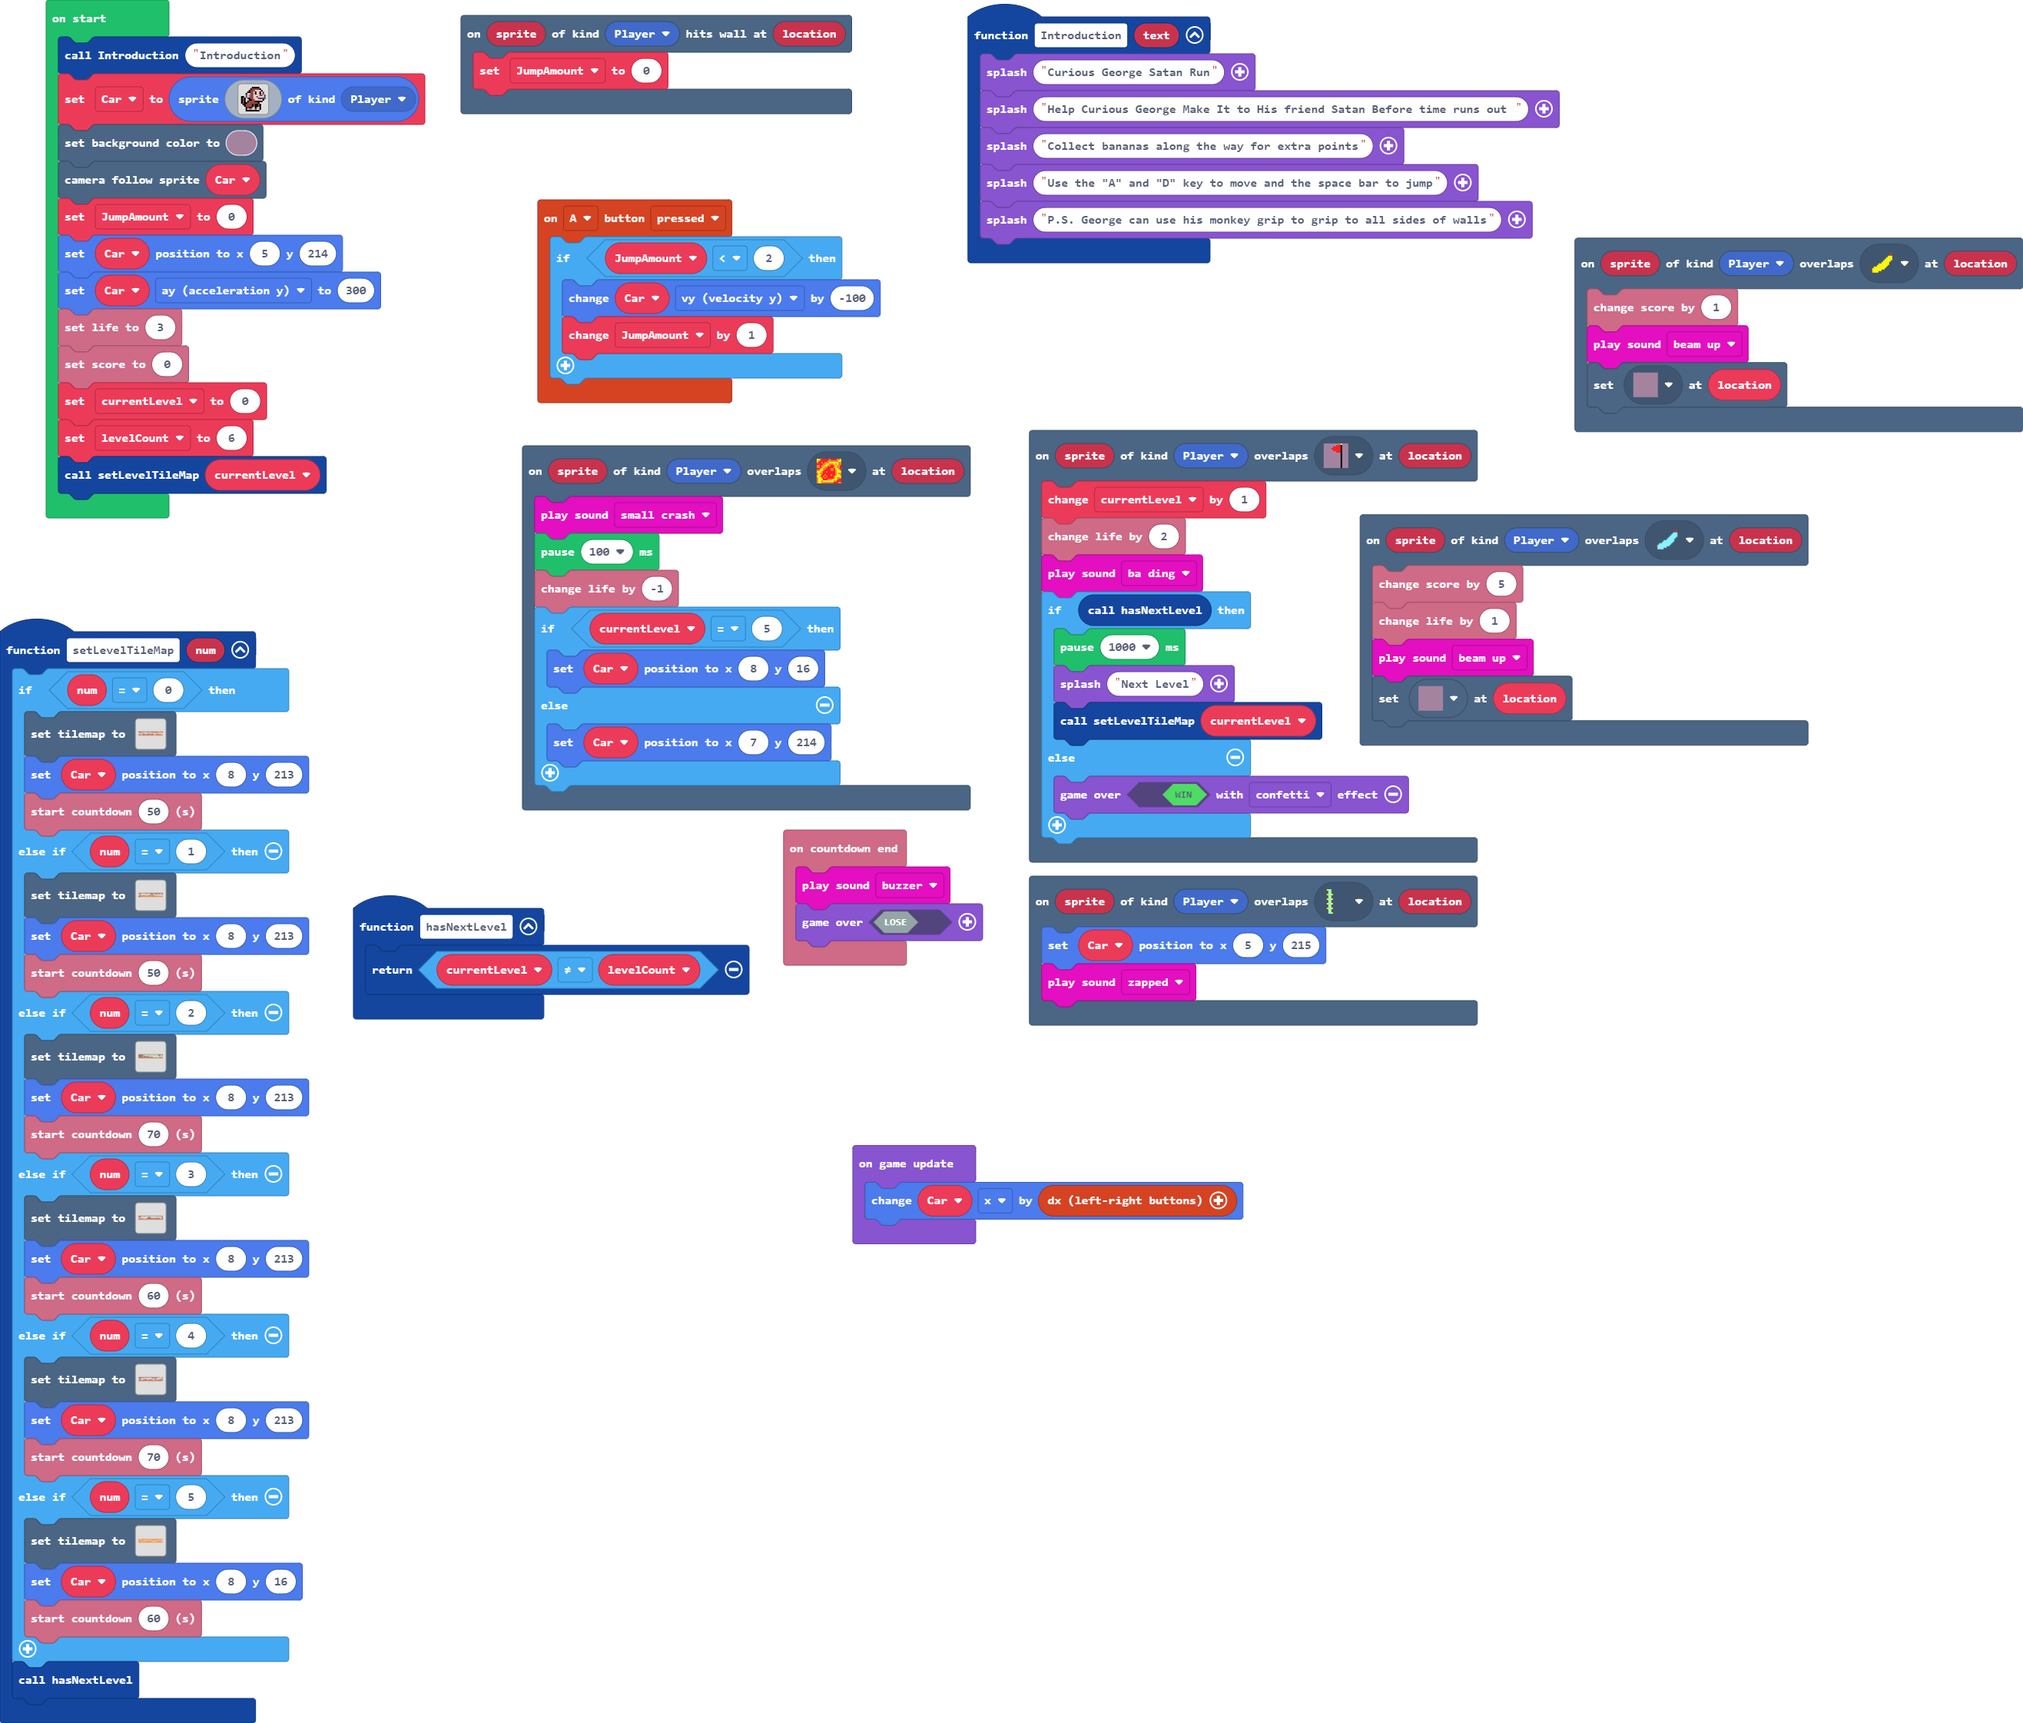
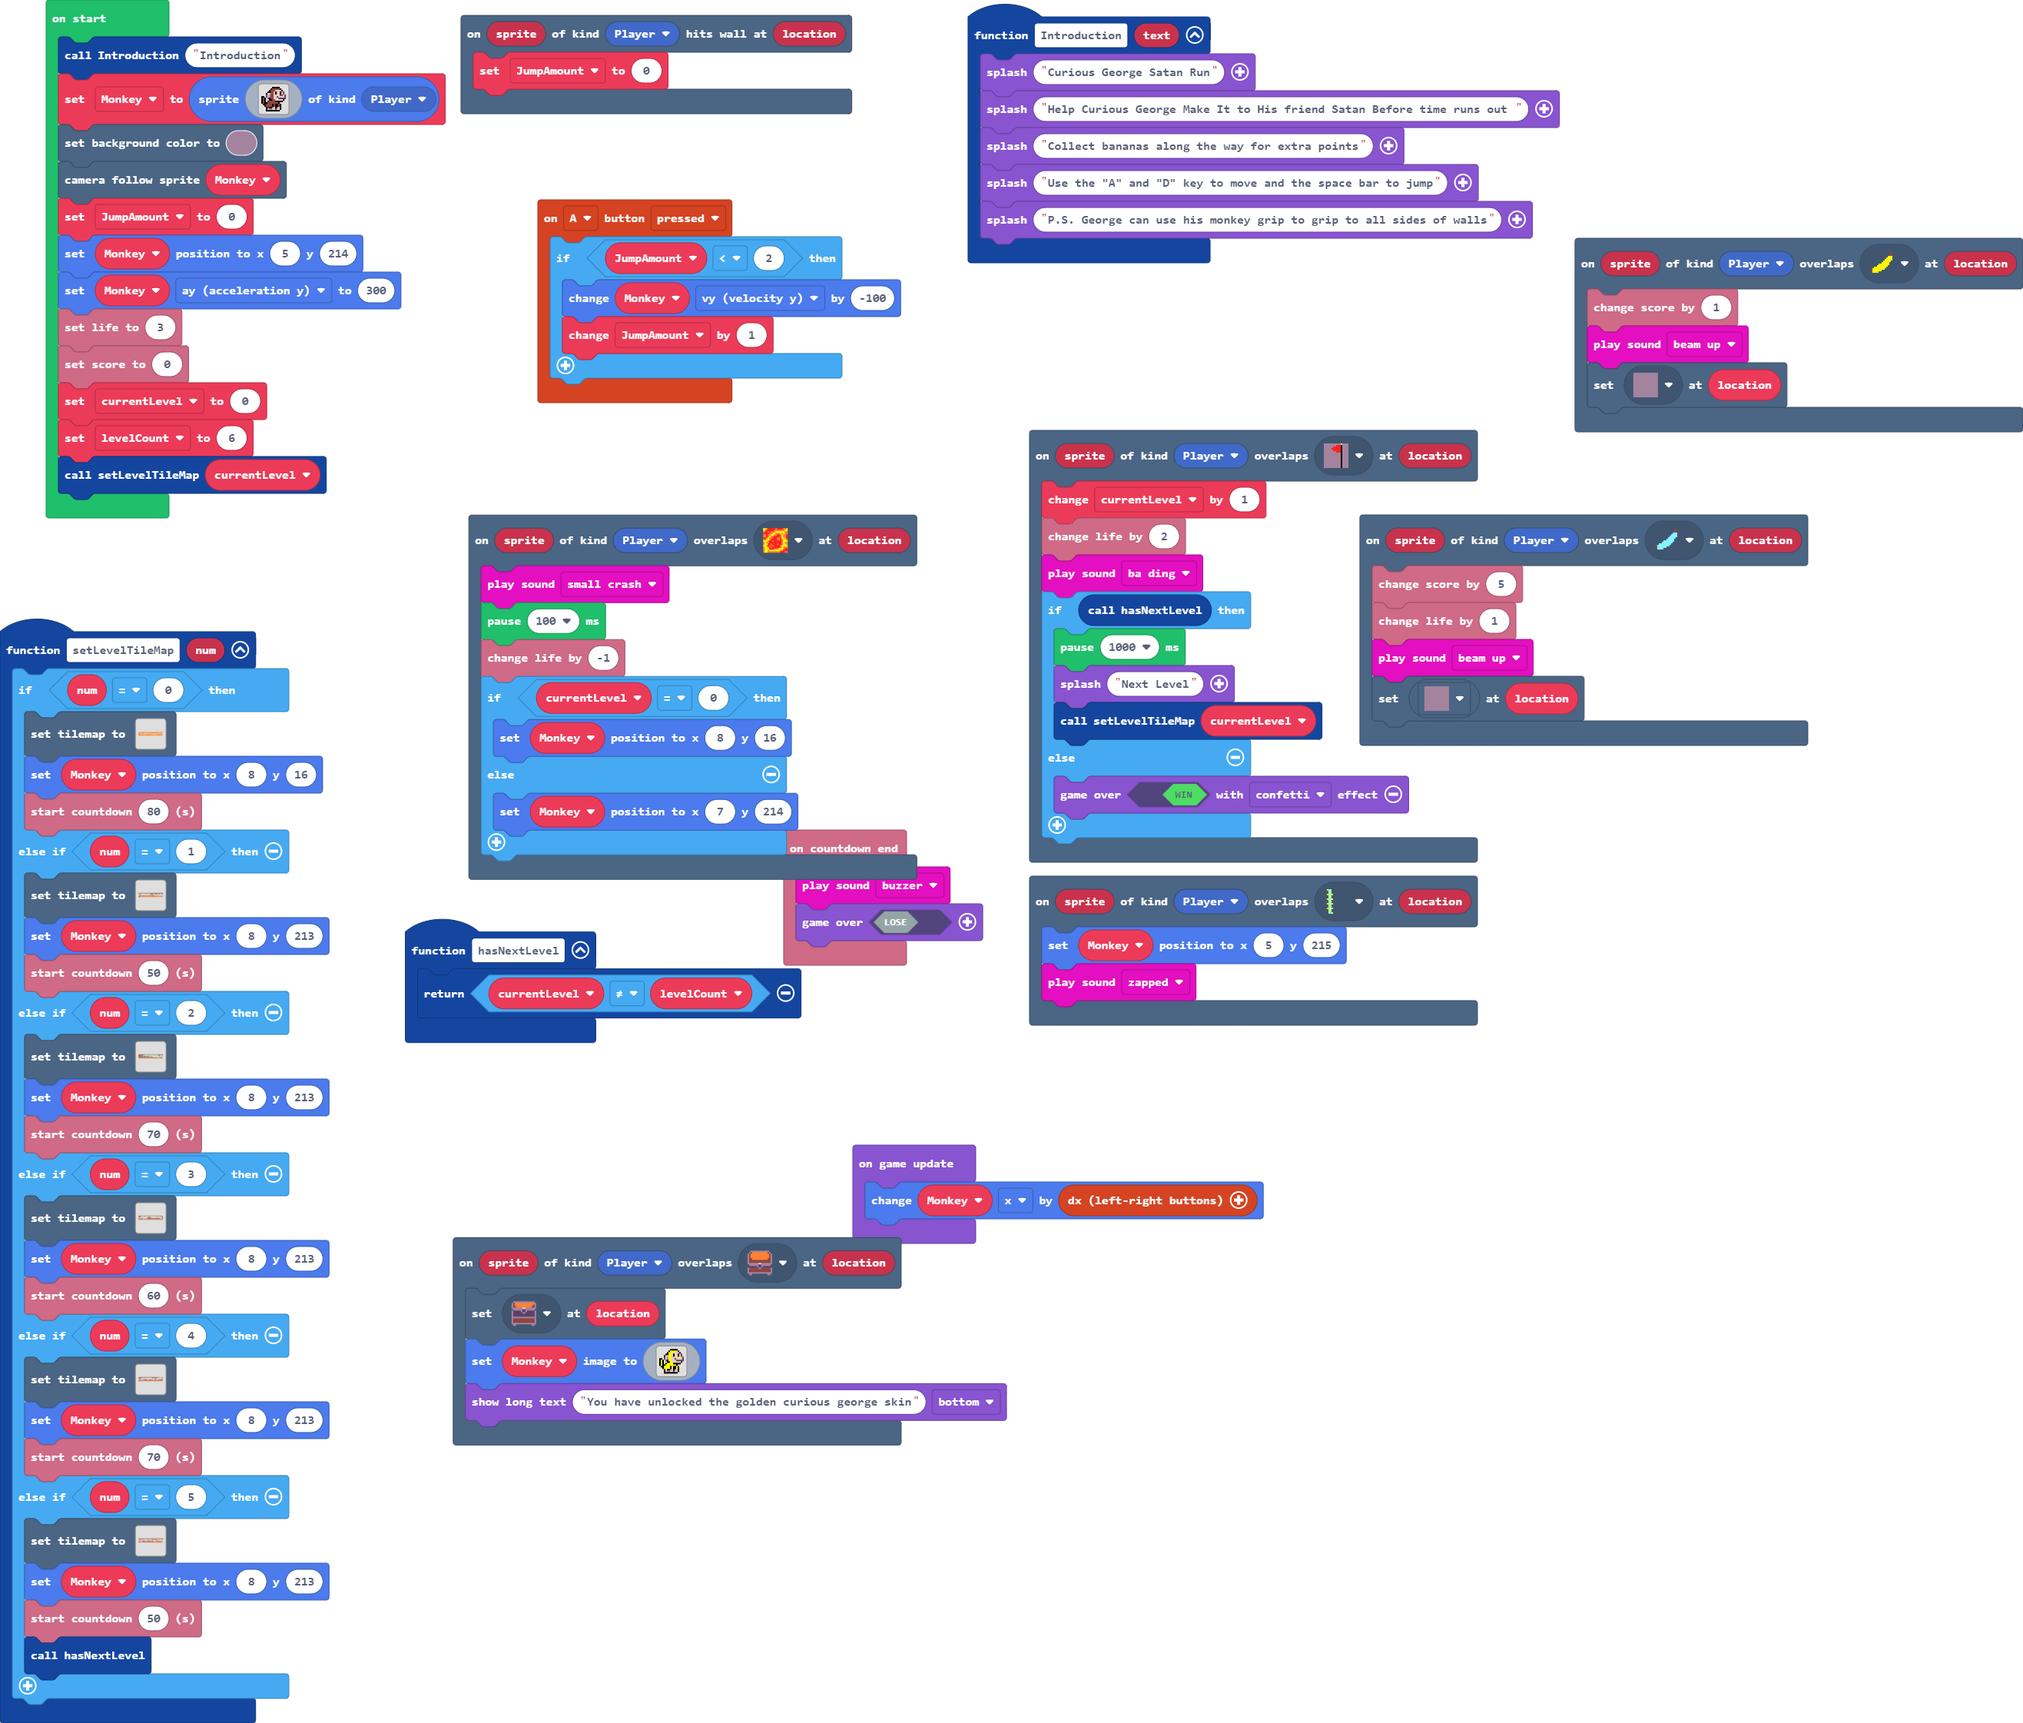
Update pxt.json, main.blocks, main.ts, tilemap.g.jres, tilemap.g.ts, images.g.jres, images.g.ts

diff --git a/tilemap.g.ts b/tilemap.g.ts
@@ -38,6 +38,8 @@ namespace myTiles {
     export const tile16 = image.ofBuffer(hex``);
     //% fixedInstance jres blockIdentity=images._tile
     export const tile18 = image.ofBuffer(hex``);
+    //% fixedInstance jres blockIdentity=images._tile
+    export const tile19 = image.ofBuffer(hex``);
 
     helpers._registerFactory("tilemap", function(name: string) {
         switch(helpers.stringTrim(name)) {
@@ -383,25 +385,6 @@ namespace myTiles {
 . . . . . . . . . . . . . . . . 
 . . . . . . . . . . . . . . . . 
 `, [myTiles.transparency16], TileScale.Sixteen);
-            case "level16":
-            case "level16":return tiles.createTilemap(hex`6400100000000000000000000000000000000000000000000000000000000000000000000000000000000000000000000000000000000000000000000000000000000000000000000000000000000000000000000000000000000000000000000000000000000000000000000000000000000000000000000000000000000000000000000000000000000000000000000000000000000000000000000000000000000000000000000000000000000000000000000000000000000000000000000000000000000000000000000101010000000000020202020202020202020202020202020202020202020202020202020202020202020202020202020202020202020202020202020202020202020202020202020202020202020202020202020202020202020202020202020202020201010202000000000202020202020202020202020202020202020202020202020202020202020202020202020202020202020202020202020202020202020202020202020202020202020202020202020202020202020202020202020202020202020202010202020009000000020202020202020202020202020202020202020202020202020202020202020202020202020202020202020202020202020202020202020202020202020202020202020202020202020202020202020202020202020202020202020202020202000000000002020202020202020202020202020202020000000000000000000000000000000000000000020202020202020202020202020202020202020202020202020202020202020202020202020000000000000000000000000000000002020202020000000000000202020202020202020202020200000000000000000000000000000000000000000000000000000000000202020202020202020202020202020202020202020202020200000000000000000000000000000000000000000000020202020202000900000000000202020202020202020000000000000000090000000000070009000000000000000000000007000000000002020202020202020202020202020202020202000000000000000000000000000000000900000000000000000202020202020200000007000000000000000000000000000000000700000000000000090000000000000900000900000000000000000000000000000000000000000000000000000000000000000000000009000000000900000000000009000000000002020202020202020000090000000000000000000000000000000009000000000900000000000002020202020202020209000000000007000000000700000000000000000000000000000000090009000000000202020202020202020202000005000000020202020202020202020200000000000000070000090000000900000000020202020202020202020202020202020202020202090000000000000000000000090000000000000000000700000000000002020202020202020202020202020000060000040202020202020202020202020200090000000900000000000000020202020202020202020202020202020202020202020202020202000900000000090000000009000800000000000009000202020202020202020202020202020202020200030303030302020202020202020202020202020202020202020202020202020202020202020202020202020202020202020202020202020202020202020209000000090000000009000000090202020202020202020202020202020202020202020202000303030303020202020202020202020202020202020202020202020202020202020202020202020202020202020202020202020202020202020202020202020202020202000700000000020202020202020202020202020202020202020202020202020000000000000202020202020202020202020202020202020202020202020202020202020202020202020202020202020202020202020202020202020202020202020202020202020202020202020202020202020202020202020202020202020202020202020000000002020202020202020202020202020202020202020202020202020202020202020202020202020202020202020202020202020202020202020202020202020202020202020202020202020202020202020202020202020202020202020202020202020202`, img`
-....................................................................................................
-....................................................................................................
-222.................................................................................................
-22..................................................................................................
-2....2..............................................................................................
-....................................................................................................
-....................................................................................................
-.......2......................2.......2....................................................2........
-...................................2......2..2....................................2....2......2.....
-..........2................2....2...............2...........................2.2.....................
-.....................2...2.........................2...........2....................................
-..............2...2...................................2....2....2........2.....................22222
-.........................................................2...2....2...2........................22222
-....................................................................................................
-....................................................................................................
-....................................................................................................
-`, [myTiles.transparency16,sprites.dungeon.darkGroundNorthWest1,sprites.dungeon.hazardLava0,myTiles.tile1,myTiles.tile3,myTiles.tile12,myTiles.tile9,myTiles.tile7,myTiles.tile16,myTiles.tile17], TileScale.Sixteen);
             case "level2":
[1 lines of base64/hex data omitted]
 ....................................................................................................
@@ -459,6 +442,25 @@ namespace myTiles {
 2222................................................................................................
 2222................................................................................................
 `, [myTiles.transparency16,myTiles.tile1,myTiles.tile3,myTiles.tile12,myTiles.tile9,myTiles.tile7,myTiles.tile5,myTiles.tile11,sprites.dungeon.darkGroundNorthWest1,sprites.dungeon.hazardLava0,sprites.dungeon.floorDarkDiamond,sprites.dungeon.doorLockedNorth,sprites.builtin.forestTiles0,myTiles.tile14,myTiles.tile8,myTiles.tile10], TileScale.Sixteen);
+            case "level16":
[1 lines of base64/hex data omitted]
+....................................................................................................
+....................................................................................................
+222.................................................................................................
+22..................................................................................................
+2....2..............................................................................................
+....................................................................................................
+....................................................................................................
+.......2......................2.......2....................................................2........
+...................................2......2..2....................................2....2......2.....
+..........2................2....2...............2...........................2.2.....................
+.....................2...2.........................2...........2....................................
+..............2...2...................................2....2....2........2.....................22222
+.........................................................2...2....2...2........................22222
+....................................................................................................
+....................................................................................................
+....................................................................................................
+`, [myTiles.transparency16,sprites.dungeon.darkGroundNorthWest1,sprites.dungeon.hazardLava0,myTiles.tile1,myTiles.tile3,myTiles.tile12,myTiles.tile9,myTiles.tile7,myTiles.tile16,myTiles.tile17,sprites.dungeon.chestClosed], TileScale.Sixteen);
         }
         return null;
     })
@@ -502,6 +504,8 @@ namespace myTiles {
             case "tile16":return tile16;
             case "myTile14":
             case "tile18":return tile18;
+            case "myTile15":
+            case "tile19":return tile19;
         }
         return null;
     })

diff --git a/main.ts b/main.ts
@@ -15,35 +15,35 @@ scene.onHitWall(SpriteKind.Player, function (sprite, location) {
 })
 function setLevelTileMap (num: number) {
     if (num == 0) {
-        tiles.setTilemap(tilemap`level1`)
-        Car.setPosition(8, 213)
-        info.startCountdown(50)
+        tiles.setTilemap(tilemap`level16`)
+        Monkey.setPosition(8, 16)
+        info.startCountdown(80)
     } else if (num == 1) {
         tiles.setTilemap(tilemap`level2`)
-        Car.setPosition(8, 213)
+        Monkey.setPosition(8, 213)
         info.startCountdown(50)
     } else if (num == 2) {
         tiles.setTilemap(tilemap`level3`)
-        Car.setPosition(8, 213)
+        Monkey.setPosition(8, 213)
         info.startCountdown(70)
     } else if (num == 3) {
         tiles.setTilemap(tilemap`level7`)
-        Car.setPosition(8, 213)
+        Monkey.setPosition(8, 213)
         info.startCountdown(60)
     } else if (num == 4) {
         tiles.setTilemap(tilemap`level9`)
-        Car.setPosition(8, 213)
+        Monkey.setPosition(8, 213)
         info.startCountdown(70)
     } else if (num == 5) {
-        tiles.setTilemap(tilemap`level16`)
-        Car.setPosition(8, 16)
-        info.startCountdown(60)
+        tiles.setTilemap(tilemap`level1`)
+        Monkey.setPosition(8, 213)
+        info.startCountdown(50)
+        hasNextLevel()
     }
-    hasNextLevel()
 }
 controller.A.onEvent(ControllerButtonEvent.Pressed, function () {
     if (JumpAmount < 2) {
-        Car.vy += -100
+        Monkey.vy += -100
         JumpAmount += 1
     }
 })
@@ -51,10 +51,10 @@ scene.onOverlapTile(SpriteKind.Player, sprites.dungeon.hazardLava0, function (sp
     music.smallCrash.play()
     pause(100)
     info.changeLifeBy(-1)
-    if (currentLevel == 5) {
-        Car.setPosition(8, 16)
+    if (currentLevel == 0) {
+        Monkey.setPosition(8, 16)
     } else {
-        Car.setPosition(7, 214)
+        Monkey.setPosition(7, 214)
     }
 })
 scene.onOverlapTile(SpriteKind.Player, assets.tile`myTile12`, function (sprite, location) {
@@ -64,12 +64,17 @@ scene.onOverlapTile(SpriteKind.Player, assets.tile`myTile12`, function (sprite, 
     tiles.setTileAt(location, assets.tile`myTile11`)
 })
 scene.onOverlapTile(SpriteKind.Player, assets.tile`myTile9`, function (sprite, location) {
-    Car.setPosition(5, 215)
+    Monkey.setPosition(5, 215)
     music.zapped.play()
 })
 info.onCountdownEnd(function () {
     music.buzzer.play()
     game.over(false)
+})
+scene.onOverlapTile(SpriteKind.Player, sprites.dungeon.chestClosed, function (sprite, location) {
+    tiles.setTileAt(location, assets.tile`myTile15`)
+    Monkey.setImage(assets.image`Golden Curious George`)
+    game.showLongText("You have unlocked the golden curious george skin", DialogLayout.Bottom)
 })
 function Introduction (text: string) {
     game.splash("Curious George Satan Run")
@@ -89,9 +94,9 @@ function hasNextLevel () {
 let levelCount = 0
 let currentLevel = 0
 let JumpAmount = 0
-let Car: Sprite = null
+let Monkey: Sprite = null
 Introduction("Introduction")
-Car = sprites.create(img`
+Monkey = sprites.create(img`
     . . . . . . . f f f f f . . . . 
     . . . . . . f e e e e e f . . . 
     . . . . . f e e e d d d d f . . 
@@ -110,15 +115,15 @@ Car = sprites.create(img`
     . . . f f f f f f f f f . . . . 
     `, SpriteKind.Player)
 scene.setBackgroundColor(11)
-scene.cameraFollowSprite(Car)
+scene.cameraFollowSprite(Monkey)
 JumpAmount = 0
-Car.setPosition(5, 214)
-Car.ay = 300
+Monkey.setPosition(5, 214)
+Monkey.ay = 300
 info.setLife(3)
 info.setScore(0)
 currentLevel = 0
 levelCount = 6
 setLevelTileMap(currentLevel)
 game.onUpdate(function () {
-    Car.x += controller.dx()
+    Monkey.x += controller.dx()
 })

diff --git a/images.g.ts b/images.g.ts
@@ -1,0 +1,37 @@
+// Auto-generated code. Do not edit.
+namespace myImages {
+
+    helpers._registerFactory("image", function(name: string) {
+        switch(helpers.stringTrim(name)) {
+            case "B%`Fib+rit0w-hMqYOxL":
+            case "Golden Curious George":return img`
+. . . . . . . f f f f f . . . . 
+. . . . . . f 5 5 5 5 5 f . . . 
+. . . . . f 5 5 5 d d d d f . . 
+. . . . f f 5 5 d f d d f d c . 
+. . . f d d 5 5 d f d d f d c . 
+. . . c d b 5 5 d d d d 5 5 d c 
+f f . c d b 5 5 d d c d d d d c 
+f 5 f . c f 5 5 d d d c c c c c 
+f 5 f . . f f 5 5 d d d d d f . 
+f 5 f . f 5 5 5 5 f f f f f . . 
+f 5 f f 5 5 5 5 5 5 5 f . . . . 
+. f f 5 5 5 5 f 5 f f 5 f . . . 
+. . f 5 5 5 5 f 5 f f 5 f . . . 
+. . . f 5 f f b d f b d f . . . 
+. . . f d b b d d c d d f . . . 
+. . . f f f f f f f f f . . . . 
+`;
+        }
+        return null;
+    })
+
+    helpers._registerFactory("animation", function(name: string) {
+        switch(helpers.stringTrim(name)) {
+
+        }
+        return null;
+    })
+
+}
+// Auto-generated code. Do not edit.
